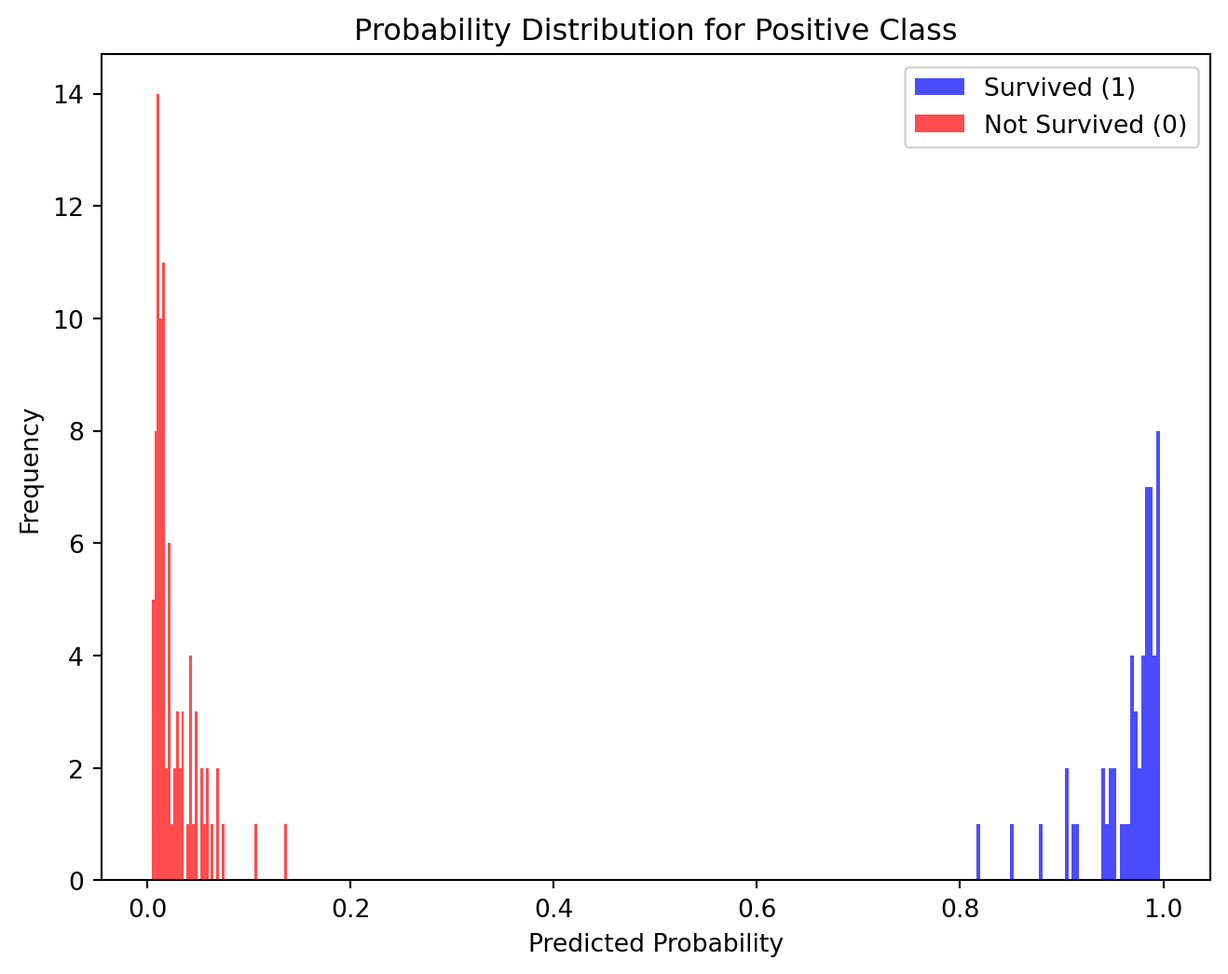
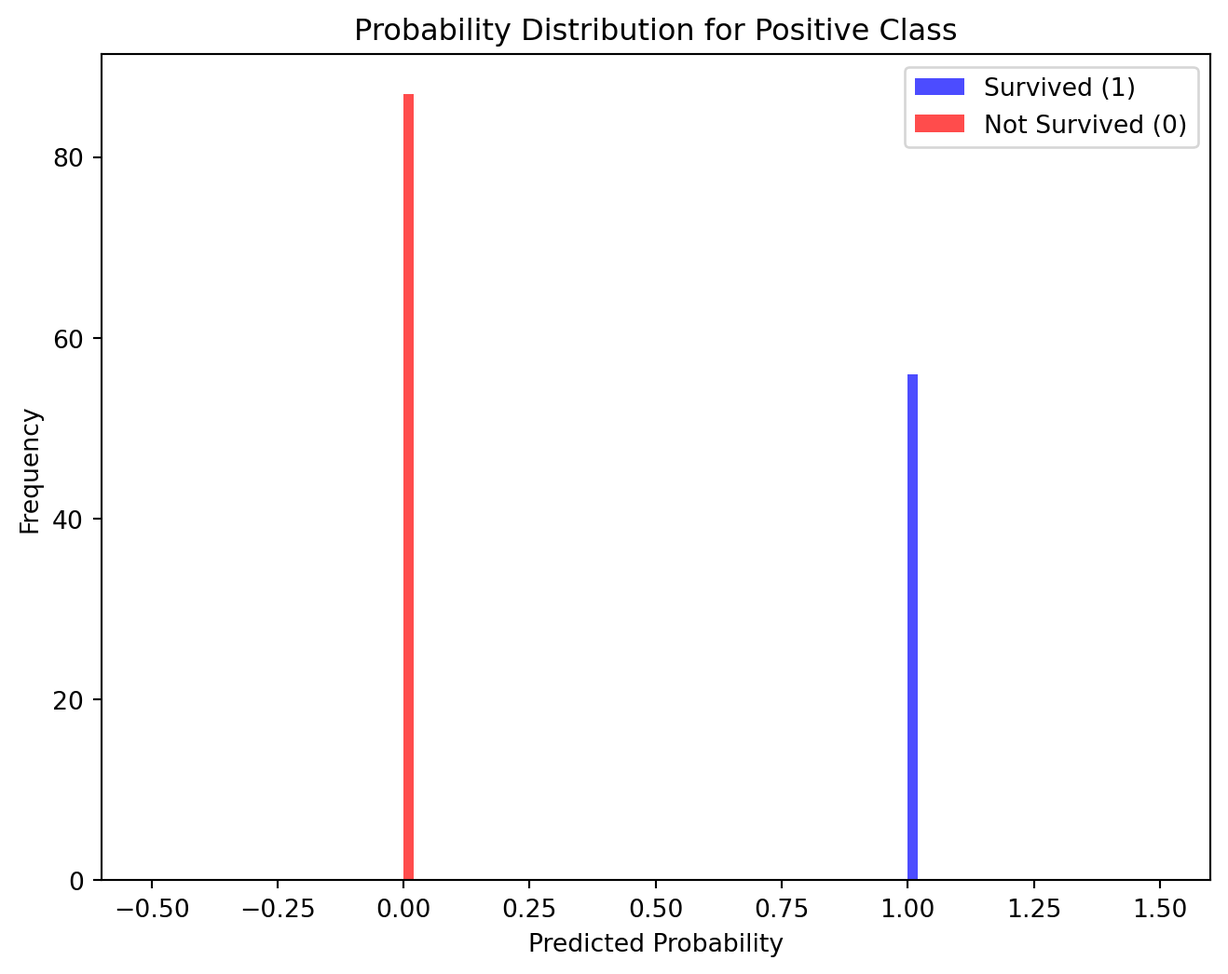
commit with GaussNB

diff --git a/docs/posts/Probability and random variable/index.html b/docs/posts/Probability and random variable/index.html
@@ -191,7 +191,7 @@ pre > code.sourceCode > span > a:first-child::before { text-decoration: underlin
 <span id="cb1-2"><a href="#cb1-2" aria-hidden="true" tabindex="-1"></a><span class="im">import</span> matplotlib.pyplot <span class="im">as</span> plt</span>
 <span id="cb1-3"><a href="#cb1-3" aria-hidden="true" tabindex="-1"></a></span>
 <span id="cb1-4"><a href="#cb1-4" aria-hidden="true" tabindex="-1"></a><span class="im">from</span> sklearn.model_selection <span class="im">import</span> train_test_split</span>
-<span id="cb1-5"><a href="#cb1-5" aria-hidden="true" tabindex="-1"></a><span class="im">from</span> sklearn.linear_model <span class="im">import</span> LogisticRegression</span>
+<span id="cb1-5"><a href="#cb1-5" aria-hidden="true" tabindex="-1"></a><span class="im">from</span> sklearn.naive_bayes <span class="im">import</span> GaussianNB</span>
 <span id="cb1-6"><a href="#cb1-6" aria-hidden="true" tabindex="-1"></a><span class="im">from</span> sklearn.metrics <span class="im">import</span> accuracy_score, classification_report</span>
 <span id="cb1-7"><a href="#cb1-7" aria-hidden="true" tabindex="-1"></a><span class="im">from</span> sklearn.metrics <span class="im">import</span> roc_curve, auc</span>
 <span id="cb1-8"><a href="#cb1-8" aria-hidden="true" tabindex="-1"></a><span class="im">from</span> sklearn.preprocessing <span class="im">import</span> OneHotEncoder</span>
@@ -244,37 +244,25 @@ pre > code.sourceCode > span > a:first-child::before { text-decoration: underlin
 </div>
 <div class="cell" data-execution_count="11">
 <div class="sourceCode cell-code" id="cb11"><pre class="sourceCode python code-with-copy"><code class="sourceCode python"><span id="cb11-1"><a href="#cb11-1" aria-hidden="true" tabindex="-1"></a><span class="co"># Train a logistic regression model</span></span>
-<span id="cb11-2"><a href="#cb11-2" aria-hidden="true" tabindex="-1"></a>model <span class="op">=</span> LogisticRegression()</span>
+<span id="cb11-2"><a href="#cb11-2" aria-hidden="true" tabindex="-1"></a>model <span class="op">=</span> GaussianNB()</span>
 <span id="cb11-3"><a href="#cb11-3" aria-hidden="true" tabindex="-1"></a>model.fit(X_train, y_train)</span></code><button title="Copy to Clipboard" class="code-copy-button"><i class="bi"></i></button></pre></div>
-<div class="cell-output cell-output-stderr">
-<pre><code>C:\Users\mehra\anaconda3\Lib\site-packages\sklearn\linear_model\_logistic.py:460: ConvergenceWarning:
-
-lbfgs failed to converge (status=1):
-STOP: TOTAL NO. of ITERATIONS REACHED LIMIT.
-
-Increase the number of iterations (max_iter) or scale the data as shown in:
-    https://scikit-learn.org/stable/modules/preprocessing.html
-Please also refer to the documentation for alternative solver options:
-    https://scikit-learn.org/stable/modules/linear_model.html#logistic-regression
-</code></pre>
-</div>
-<div class="cell-output cell-output-display" data-execution_count="11">
-<style>#sk-container-id-1 {color: black;}#sk-container-id-1 pre{padding: 0;}#sk-container-id-1 div.sk-toggleable {background-color: white;}#sk-container-id-1 label.sk-toggleable__label {cursor: pointer;display: block;width: 100%;margin-bottom: 0;padding: 0.3em;box-sizing: border-box;text-align: center;}#sk-container-id-1 label.sk-toggleable__label-arrow:before {content: "▸";float: left;margin-right: 0.25em;color: #696969;}#sk-container-id-1 label.sk-toggleable__label-arrow:hover:before {color: black;}#sk-container-id-1 div.sk-estimator:hover label.sk-toggleable__label-arrow:before {color: black;}#sk-container-id-1 div.sk-toggleable__content {max-height: 0;max-width: 0;overflow: hidden;text-align: left;background-color: #f0f8ff;}#sk-container-id-1 div.sk-toggleable__content pre {margin: 0.2em;color: black;border-radius: 0.25em;background-color: #f0f8ff;}#sk-container-id-1 input.sk-toggleable__control:checked~div.sk-toggleable__content {max-height: 200px;max-width: 100%;overflow: auto;}#sk-container-id-1 input.sk-toggleable__control:checked~label.sk-toggleable__label-arrow:before {content: "▾";}#sk-container-id-1 div.sk-estimator input.sk-toggleable__control:checked~label.sk-toggleable__label {background-color: #d4ebff;}#sk-container-id-1 div.sk-label input.sk-toggleable__control:checked~label.sk-toggleable__label {background-color: #d4ebff;}#sk-container-id-1 input.sk-hidden--visually {border: 0;clip: rect(1px 1px 1px 1px);clip: rect(1px, 1px, 1px, 1px);height: 1px;margin: -1px;overflow: hidden;padding: 0;position: absolute;width: 1px;}#sk-container-id-1 div.sk-estimator {font-family: monospace;background-color: #f0f8ff;border: 1px dotted black;border-radius: 0.25em;box-sizing: border-box;margin-bottom: 0.5em;}#sk-container-id-1 div.sk-estimator:hover {background-color: #d4ebff;}#sk-container-id-1 div.sk-parallel-item::after {content: "";width: 100%;border-bottom: 1px solid gray;flex-grow: 1;}#sk-container-id-1 div.sk-label:hover label.sk-toggleable__label {background-color: #d4ebff;}#sk-container-id-1 div.sk-serial::before {content: "";position: absolute;border-left: 1px solid gray;box-sizing: border-box;top: 0;bottom: 0;left: 50%;z-index: 0;}#sk-container-id-1 div.sk-serial {display: flex;flex-direction: column;align-items: center;background-color: white;padding-right: 0.2em;padding-left: 0.2em;position: relative;}#sk-container-id-1 div.sk-item {position: relative;z-index: 1;}#sk-container-id-1 div.sk-parallel {display: flex;align-items: stretch;justify-content: center;background-color: white;position: relative;}#sk-container-id-1 div.sk-item::before, #sk-container-id-1 div.sk-parallel-item::before {content: "";position: absolute;border-left: 1px solid gray;box-sizing: border-box;top: 0;bottom: 0;left: 50%;z-index: -1;}#sk-container-id-1 div.sk-parallel-item {display: flex;flex-direction: column;z-index: 1;position: relative;background-color: white;}#sk-container-id-1 div.sk-parallel-item:first-child::after {align-self: flex-end;width: 50%;}#sk-container-id-1 div.sk-parallel-item:last-child::after {align-self: flex-start;width: 50%;}#sk-container-id-1 div.sk-parallel-item:only-child::after {width: 0;}#sk-container-id-1 div.sk-dashed-wrapped {border: 1px dashed gray;margin: 0 0.4em 0.5em 0.4em;box-sizing: border-box;padding-bottom: 0.4em;background-color: white;}#sk-container-id-1 div.sk-label label {font-family: monospace;font-weight: bold;display: inline-block;line-height: 1.2em;}#sk-container-id-1 div.sk-label-container {text-align: center;}#sk-container-id-1 div.sk-container {/* jupyter's `normalize.less` sets `[hidden] { display: none; }` but bootstrap.min.css set `[hidden] { display: none !important; }` so we also need the `!important` here to be able to override the default hidden behavior on the sphinx rendered scikit-learn.org. See: https://github.com/scikit-learn/scikit-learn/issues/21755 */display: inline-block !important;position: relative;}#sk-container-id-1 div.sk-text-repr-fallback {display: none;}</style><div id="sk-container-id-1" class="sk-top-container"><div class="sk-text-repr-fallback"><pre>LogisticRegression()</pre><b>In a Jupyter environment, please rerun this cell to show the HTML representation or trust the notebook. <br>On GitHub, the HTML representation is unable to render, please try loading this page with nbviewer.org.</b></div><div class="sk-container" hidden=""><div class="sk-item"><div class="sk-estimator sk-toggleable"><input class="sk-toggleable__control sk-hidden--visually" id="sk-estimator-id-1" type="checkbox" checked=""><label for="sk-estimator-id-1" class="sk-toggleable__label sk-toggleable__label-arrow">LogisticRegression</label><div class="sk-toggleable__content"><pre>LogisticRegression()</pre></div></div></div></div></div>
+<div class="cell-output cell-output-display" data-execution_count="33">
+<style>#sk-container-id-1 {color: black;}#sk-container-id-1 pre{padding: 0;}#sk-container-id-1 div.sk-toggleable {background-color: white;}#sk-container-id-1 label.sk-toggleable__label {cursor: pointer;display: block;width: 100%;margin-bottom: 0;padding: 0.3em;box-sizing: border-box;text-align: center;}#sk-container-id-1 label.sk-toggleable__label-arrow:before {content: "▸";float: left;margin-right: 0.25em;color: #696969;}#sk-container-id-1 label.sk-toggleable__label-arrow:hover:before {color: black;}#sk-container-id-1 div.sk-estimator:hover label.sk-toggleable__label-arrow:before {color: black;}#sk-container-id-1 div.sk-toggleable__content {max-height: 0;max-width: 0;overflow: hidden;text-align: left;background-color: #f0f8ff;}#sk-container-id-1 div.sk-toggleable__content pre {margin: 0.2em;color: black;border-radius: 0.25em;background-color: #f0f8ff;}#sk-container-id-1 input.sk-toggleable__control:checked~div.sk-toggleable__content {max-height: 200px;max-width: 100%;overflow: auto;}#sk-container-id-1 input.sk-toggleable__control:checked~label.sk-toggleable__label-arrow:before {content: "▾";}#sk-container-id-1 div.sk-estimator input.sk-toggleable__control:checked~label.sk-toggleable__label {background-color: #d4ebff;}#sk-container-id-1 div.sk-label input.sk-toggleable__control:checked~label.sk-toggleable__label {background-color: #d4ebff;}#sk-container-id-1 input.sk-hidden--visually {border: 0;clip: rect(1px 1px 1px 1px);clip: rect(1px, 1px, 1px, 1px);height: 1px;margin: -1px;overflow: hidden;padding: 0;position: absolute;width: 1px;}#sk-container-id-1 div.sk-estimator {font-family: monospace;background-color: #f0f8ff;border: 1px dotted black;border-radius: 0.25em;box-sizing: border-box;margin-bottom: 0.5em;}#sk-container-id-1 div.sk-estimator:hover {background-color: #d4ebff;}#sk-container-id-1 div.sk-parallel-item::after {content: "";width: 100%;border-bottom: 1px solid gray;flex-grow: 1;}#sk-container-id-1 div.sk-label:hover label.sk-toggleable__label {background-color: #d4ebff;}#sk-container-id-1 div.sk-serial::before {content: "";position: absolute;border-left: 1px solid gray;box-sizing: border-box;top: 0;bottom: 0;left: 50%;z-index: 0;}#sk-container-id-1 div.sk-serial {display: flex;flex-direction: column;align-items: center;background-color: white;padding-right: 0.2em;padding-left: 0.2em;position: relative;}#sk-container-id-1 div.sk-item {position: relative;z-index: 1;}#sk-container-id-1 div.sk-parallel {display: flex;align-items: stretch;justify-content: center;background-color: white;position: relative;}#sk-container-id-1 div.sk-item::before, #sk-container-id-1 div.sk-parallel-item::before {content: "";position: absolute;border-left: 1px solid gray;box-sizing: border-box;top: 0;bottom: 0;left: 50%;z-index: -1;}#sk-container-id-1 div.sk-parallel-item {display: flex;flex-direction: column;z-index: 1;position: relative;background-color: white;}#sk-container-id-1 div.sk-parallel-item:first-child::after {align-self: flex-end;width: 50%;}#sk-container-id-1 div.sk-parallel-item:last-child::after {align-self: flex-start;width: 50%;}#sk-container-id-1 div.sk-parallel-item:only-child::after {width: 0;}#sk-container-id-1 div.sk-dashed-wrapped {border: 1px dashed gray;margin: 0 0.4em 0.5em 0.4em;box-sizing: border-box;padding-bottom: 0.4em;background-color: white;}#sk-container-id-1 div.sk-label label {font-family: monospace;font-weight: bold;display: inline-block;line-height: 1.2em;}#sk-container-id-1 div.sk-label-container {text-align: center;}#sk-container-id-1 div.sk-container {/* jupyter's `normalize.less` sets `[hidden] { display: none; }` but bootstrap.min.css set `[hidden] { display: none !important; }` so we also need the `!important` here to be able to override the default hidden behavior on the sphinx rendered scikit-learn.org. See: https://github.com/scikit-learn/scikit-learn/issues/21755 */display: inline-block !important;position: relative;}#sk-container-id-1 div.sk-text-repr-fallback {display: none;}</style><div id="sk-container-id-1" class="sk-top-container"><div class="sk-text-repr-fallback"><pre>GaussianNB()</pre><b>In a Jupyter environment, please rerun this cell to show the HTML representation or trust the notebook. <br>On GitHub, the HTML representation is unable to render, please try loading this page with nbviewer.org.</b></div><div class="sk-container" hidden=""><div class="sk-item"><div class="sk-estimator sk-toggleable"><input class="sk-toggleable__control sk-hidden--visually" id="sk-estimator-id-1" type="checkbox" checked=""><label for="sk-estimator-id-1" class="sk-toggleable__label sk-toggleable__label-arrow">GaussianNB</label><div class="sk-toggleable__content"><pre>GaussianNB()</pre></div></div></div></div></div>
 </div>
 </div>
 <div class="cell" data-execution_count="12">
-<div class="sourceCode cell-code" id="cb13"><pre class="sourceCode python code-with-copy"><code class="sourceCode python"><span id="cb13-1"><a href="#cb13-1" aria-hidden="true" tabindex="-1"></a><span class="co"># Make predictions on the test set</span></span>
-<span id="cb13-2"><a href="#cb13-2" aria-hidden="true" tabindex="-1"></a>y_pred <span class="op">=</span> model.predict(X_test)</span>
-<span id="cb13-3"><a href="#cb13-3" aria-hidden="true" tabindex="-1"></a>y_pred_proba <span class="op">=</span> model.predict_proba(X_test)[:, <span class="dv">1</span>]</span></code><button title="Copy to Clipboard" class="code-copy-button"><i class="bi"></i></button></pre></div>
+<div class="sourceCode cell-code" id="cb12"><pre class="sourceCode python code-with-copy"><code class="sourceCode python"><span id="cb12-1"><a href="#cb12-1" aria-hidden="true" tabindex="-1"></a><span class="co"># Make predictions on the test set</span></span>
+<span id="cb12-2"><a href="#cb12-2" aria-hidden="true" tabindex="-1"></a>y_pred <span class="op">=</span> model.predict(X_test)</span>
+<span id="cb12-3"><a href="#cb12-3" aria-hidden="true" tabindex="-1"></a>y_pred_proba <span class="op">=</span> model.predict_proba(X_test)[:, <span class="dv">1</span>]</span></code><button title="Copy to Clipboard" class="code-copy-button"><i class="bi"></i></button></pre></div>
 </div>
 <div class="cell" data-execution_count="13">
-<div class="sourceCode cell-code" id="cb14"><pre class="sourceCode python code-with-copy"><code class="sourceCode python"><span id="cb14-1"><a href="#cb14-1" aria-hidden="true" tabindex="-1"></a><span class="co"># Evaluate the model</span></span>
-<span id="cb14-2"><a href="#cb14-2" aria-hidden="true" tabindex="-1"></a>accuracy <span class="op">=</span> accuracy_score(y_test, y_pred)</span>
-<span id="cb14-3"><a href="#cb14-3" aria-hidden="true" tabindex="-1"></a>classification_rep <span class="op">=</span> classification_report(y_test, y_pred)</span></code><button title="Copy to Clipboard" class="code-copy-button"><i class="bi"></i></button></pre></div>
+<div class="sourceCode cell-code" id="cb13"><pre class="sourceCode python code-with-copy"><code class="sourceCode python"><span id="cb13-1"><a href="#cb13-1" aria-hidden="true" tabindex="-1"></a><span class="co"># Evaluate the model</span></span>
+<span id="cb13-2"><a href="#cb13-2" aria-hidden="true" tabindex="-1"></a>accuracy <span class="op">=</span> accuracy_score(y_test, y_pred)</span>
+<span id="cb13-3"><a href="#cb13-3" aria-hidden="true" tabindex="-1"></a>classification_rep <span class="op">=</span> classification_report(y_test, y_pred)</span></code><button title="Copy to Clipboard" class="code-copy-button"><i class="bi"></i></button></pre></div>
 </div>
 <div class="cell" data-execution_count="14">
-<div class="sourceCode cell-code" id="cb15"><pre class="sourceCode python code-with-copy"><code class="sourceCode python"><span id="cb15-1"><a href="#cb15-1" aria-hidden="true" tabindex="-1"></a><span class="bu">print</span>(<span class="ss">f"Accuracy: </span><span class="sc">{</span>accuracy<span class="sc">:.2f}</span><span class="ss">"</span>)</span>
-<span id="cb15-2"><a href="#cb15-2" aria-hidden="true" tabindex="-1"></a><span class="bu">print</span>(<span class="st">"Classification Report:</span><span class="ch">\n</span><span class="st">"</span>, classification_rep)</span></code><button title="Copy to Clipboard" class="code-copy-button"><i class="bi"></i></button></pre></div>
+<div class="sourceCode cell-code" id="cb14"><pre class="sourceCode python code-with-copy"><code class="sourceCode python"><span id="cb14-1"><a href="#cb14-1" aria-hidden="true" tabindex="-1"></a><span class="bu">print</span>(<span class="ss">f"Accuracy: </span><span class="sc">{</span>accuracy<span class="sc">:.2f}</span><span class="ss">"</span>)</span>
+<span id="cb14-2"><a href="#cb14-2" aria-hidden="true" tabindex="-1"></a><span class="bu">print</span>(<span class="st">"Classification Report:</span><span class="ch">\n</span><span class="st">"</span>, classification_rep)</span></code><button title="Copy to Clipboard" class="code-copy-button"><i class="bi"></i></button></pre></div>
 <div class="cell-output cell-output-stdout">
 <pre><code>Accuracy: 1.00
 Classification Report:
@@ -290,50 +278,50 @@ weighted avg       1.00      1.00      1.00       143
 </div>
 </div>
 <div class="cell" data-execution_count="15">
-<div class="sourceCode cell-code" id="cb17"><pre class="sourceCode python code-with-copy"><code class="sourceCode python"><span id="cb17-1"><a href="#cb17-1" aria-hidden="true" tabindex="-1"></a><span class="co"># Plot the ROC curve and display the AUC score</span></span>
-<span id="cb17-2"><a href="#cb17-2" aria-hidden="true" tabindex="-1"></a><span class="im">from</span> sklearn.metrics <span class="im">import</span> roc_curve, auc</span>
-<span id="cb17-3"><a href="#cb17-3" aria-hidden="true" tabindex="-1"></a><span class="im">from</span> sklearn.metrics <span class="im">import</span> precision_recall_curve, average_precision_score</span>
-<span id="cb17-4"><a href="#cb17-4" aria-hidden="true" tabindex="-1"></a></span>
-<span id="cb17-5"><a href="#cb17-5" aria-hidden="true" tabindex="-1"></a></span>
-<span id="cb17-6"><a href="#cb17-6" aria-hidden="true" tabindex="-1"></a>fpr, tpr, thresholds <span class="op">=</span> roc_curve(y_test, y_pred_proba)</span>
-<span id="cb17-7"><a href="#cb17-7" aria-hidden="true" tabindex="-1"></a>roc_auc <span class="op">=</span> auc(fpr, tpr)</span>
-<span id="cb17-8"><a href="#cb17-8" aria-hidden="true" tabindex="-1"></a></span>
-<span id="cb17-9"><a href="#cb17-9" aria-hidden="true" tabindex="-1"></a>precision, recall, _ <span class="op">=</span> precision_recall_curve(y_test, y_pred_proba)</span>
-<span id="cb17-10"><a href="#cb17-10" aria-hidden="true" tabindex="-1"></a>average_precision <span class="op">=</span> average_precision_score(y_test, y_pred_proba)</span>
-<span id="cb17-11"><a href="#cb17-11" aria-hidden="true" tabindex="-1"></a></span>
-<span id="cb17-12"><a href="#cb17-12" aria-hidden="true" tabindex="-1"></a><span class="co"># Plot ROC curve</span></span>
-<span id="cb17-13"><a href="#cb17-13" aria-hidden="true" tabindex="-1"></a>plt.figure(figsize<span class="op">=</span>(<span class="dv">12</span>, <span class="dv">5</span>))</span>
-<span id="cb17-14"><a href="#cb17-14" aria-hidden="true" tabindex="-1"></a></span>
-<span id="cb17-15"><a href="#cb17-15" aria-hidden="true" tabindex="-1"></a>plt.subplot(<span class="dv">1</span>, <span class="dv">2</span>, <span class="dv">1</span>)</span>
-<span id="cb17-16"><a href="#cb17-16" aria-hidden="true" tabindex="-1"></a>plt.plot(fpr, tpr, color<span class="op">=</span><span class="st">'darkorange'</span>, lw<span class="op">=</span><span class="dv">2</span>, label<span class="op">=</span><span class="ss">f'AUC = </span><span class="sc">{</span>roc_auc<span class="sc">:.2f}</span><span class="ss">'</span>)</span>
-<span id="cb17-17"><a href="#cb17-17" aria-hidden="true" tabindex="-1"></a>plt.plot([<span class="dv">0</span>, <span class="dv">1</span>], [<span class="dv">0</span>, <span class="dv">1</span>], color<span class="op">=</span><span class="st">'navy'</span>, lw<span class="op">=</span><span class="dv">2</span>, linestyle<span class="op">=</span><span class="st">'--'</span>)</span>
-<span id="cb17-18"><a href="#cb17-18" aria-hidden="true" tabindex="-1"></a>plt.xlabel(<span class="st">'False Positive Rate'</span>)</span>
-<span id="cb17-19"><a href="#cb17-19" aria-hidden="true" tabindex="-1"></a>plt.ylabel(<span class="st">'True Positive Rate'</span>)</span>
-<span id="cb17-20"><a href="#cb17-20" aria-hidden="true" tabindex="-1"></a>plt.title(<span class="st">'Receiver Operating Characteristic (ROC) Curve'</span>)</span>
-<span id="cb17-21"><a href="#cb17-21" aria-hidden="true" tabindex="-1"></a>plt.legend(loc<span class="op">=</span><span class="st">"lower right"</span>)</span>
-<span id="cb17-22"><a href="#cb17-22" aria-hidden="true" tabindex="-1"></a></span>
-<span id="cb17-23"><a href="#cb17-23" aria-hidden="true" tabindex="-1"></a><span class="co"># Plot precision-recall curve</span></span>
-<span id="cb17-24"><a href="#cb17-24" aria-hidden="true" tabindex="-1"></a>plt.subplot(<span class="dv">1</span>, <span class="dv">2</span>, <span class="dv">2</span>)</span>
-<span id="cb17-25"><a href="#cb17-25" aria-hidden="true" tabindex="-1"></a>plt.step(recall, precision, color<span class="op">=</span><span class="st">'b'</span>, alpha<span class="op">=</span><span class="fl">0.2</span>, where<span class="op">=</span><span class="st">'post'</span>)</span>
-<span id="cb17-26"><a href="#cb17-26" aria-hidden="true" tabindex="-1"></a>plt.fill_between(recall, precision, step<span class="op">=</span><span class="st">'post'</span>, alpha<span class="op">=</span><span class="fl">0.2</span>, color<span class="op">=</span><span class="st">'b'</span>)</span>
-<span id="cb17-27"><a href="#cb17-27" aria-hidden="true" tabindex="-1"></a>plt.xlabel(<span class="st">'Recall'</span>)</span>
-<span id="cb17-28"><a href="#cb17-28" aria-hidden="true" tabindex="-1"></a>plt.ylabel(<span class="st">'Precision'</span>)</span>
-<span id="cb17-29"><a href="#cb17-29" aria-hidden="true" tabindex="-1"></a>plt.ylim([<span class="fl">0.0</span>, <span class="fl">1.05</span>])</span>
-<span id="cb17-30"><a href="#cb17-30" aria-hidden="true" tabindex="-1"></a>plt.xlim([<span class="fl">0.0</span>, <span class="fl">1.0</span>])</span>
-<span id="cb17-31"><a href="#cb17-31" aria-hidden="true" tabindex="-1"></a>plt.title(<span class="st">'Precision-Recall curve: AP=</span><span class="sc">{0:0.2f}</span><span class="st">'</span>.<span class="bu">format</span>(average_precision))</span>
-<span id="cb17-32"><a href="#cb17-32" aria-hidden="true" tabindex="-1"></a></span>
-<span id="cb17-33"><a href="#cb17-33" aria-hidden="true" tabindex="-1"></a>plt.tight_layout()</span>
-<span id="cb17-34"><a href="#cb17-34" aria-hidden="true" tabindex="-1"></a>plt.show()</span>
-<span id="cb17-35"><a href="#cb17-35" aria-hidden="true" tabindex="-1"></a></span>
-<span id="cb17-36"><a href="#cb17-36" aria-hidden="true" tabindex="-1"></a><span class="co"># Plot probability distribution for positive class</span></span>
-<span id="cb17-37"><a href="#cb17-37" aria-hidden="true" tabindex="-1"></a>plt.figure(figsize<span class="op">=</span>(<span class="dv">8</span>, <span class="dv">6</span>))</span>
-<span id="cb17-38"><a href="#cb17-38" aria-hidden="true" tabindex="-1"></a>plt.hist(y_pred_proba[y_test <span class="op">==</span> <span class="dv">1</span>], bins<span class="op">=</span><span class="dv">50</span>, color<span class="op">=</span><span class="st">'blue'</span>, alpha<span class="op">=</span><span class="fl">0.7</span>, label<span class="op">=</span><span class="st">'Survived (1)'</span>)</span>
-<span id="cb17-39"><a href="#cb17-39" aria-hidden="true" tabindex="-1"></a>plt.hist(y_pred_proba[y_test <span class="op">==</span> <span class="dv">0</span>], bins<span class="op">=</span><span class="dv">50</span>, color<span class="op">=</span><span class="st">'red'</span>, alpha<span class="op">=</span><span class="fl">0.7</span>, label<span class="op">=</span><span class="st">'Not Survived (0)'</span>)</span>
-<span id="cb17-40"><a href="#cb17-40" aria-hidden="true" tabindex="-1"></a>plt.xlabel(<span class="st">'Predicted Probability'</span>)</span>
-<span id="cb17-41"><a href="#cb17-41" aria-hidden="true" tabindex="-1"></a>plt.ylabel(<span class="st">'Frequency'</span>)</span>
-<span id="cb17-42"><a href="#cb17-42" aria-hidden="true" tabindex="-1"></a>plt.title(<span class="st">'Probability Distribution for Positive Class'</span>)</span>
-<span id="cb17-43"><a href="#cb17-43" aria-hidden="true" tabindex="-1"></a>plt.legend(loc<span class="op">=</span><span class="st">'upper right'</span>)</span>
-<span id="cb17-44"><a href="#cb17-44" aria-hidden="true" tabindex="-1"></a>plt.show()</span></code><button title="Copy to Clipboard" class="code-copy-button"><i class="bi"></i></button></pre></div>
+<div class="sourceCode cell-code" id="cb16"><pre class="sourceCode python code-with-copy"><code class="sourceCode python"><span id="cb16-1"><a href="#cb16-1" aria-hidden="true" tabindex="-1"></a><span class="co"># Plot the ROC curve and display the AUC score</span></span>
+<span id="cb16-2"><a href="#cb16-2" aria-hidden="true" tabindex="-1"></a><span class="im">from</span> sklearn.metrics <span class="im">import</span> roc_curve, auc</span>
+<span id="cb16-3"><a href="#cb16-3" aria-hidden="true" tabindex="-1"></a><span class="im">from</span> sklearn.metrics <span class="im">import</span> precision_recall_curve, average_precision_score</span>
+<span id="cb16-4"><a href="#cb16-4" aria-hidden="true" tabindex="-1"></a></span>
+<span id="cb16-5"><a href="#cb16-5" aria-hidden="true" tabindex="-1"></a></span>
+<span id="cb16-6"><a href="#cb16-6" aria-hidden="true" tabindex="-1"></a>fpr, tpr, thresholds <span class="op">=</span> roc_curve(y_test, y_pred_proba)</span>
+<span id="cb16-7"><a href="#cb16-7" aria-hidden="true" tabindex="-1"></a>roc_auc <span class="op">=</span> auc(fpr, tpr)</span>
+<span id="cb16-8"><a href="#cb16-8" aria-hidden="true" tabindex="-1"></a></span>
+<span id="cb16-9"><a href="#cb16-9" aria-hidden="true" tabindex="-1"></a>precision, recall, _ <span class="op">=</span> precision_recall_curve(y_test, y_pred_proba)</span>
+<span id="cb16-10"><a href="#cb16-10" aria-hidden="true" tabindex="-1"></a>average_precision <span class="op">=</span> average_precision_score(y_test, y_pred_proba)</span>
+<span id="cb16-11"><a href="#cb16-11" aria-hidden="true" tabindex="-1"></a></span>
+<span id="cb16-12"><a href="#cb16-12" aria-hidden="true" tabindex="-1"></a><span class="co"># Plot ROC curve</span></span>
+<span id="cb16-13"><a href="#cb16-13" aria-hidden="true" tabindex="-1"></a>plt.figure(figsize<span class="op">=</span>(<span class="dv">12</span>, <span class="dv">5</span>))</span>
+<span id="cb16-14"><a href="#cb16-14" aria-hidden="true" tabindex="-1"></a></span>
+<span id="cb16-15"><a href="#cb16-15" aria-hidden="true" tabindex="-1"></a>plt.subplot(<span class="dv">1</span>, <span class="dv">2</span>, <span class="dv">1</span>)</span>
+<span id="cb16-16"><a href="#cb16-16" aria-hidden="true" tabindex="-1"></a>plt.plot(fpr, tpr, color<span class="op">=</span><span class="st">'darkorange'</span>, lw<span class="op">=</span><span class="dv">2</span>, label<span class="op">=</span><span class="ss">f'AUC = </span><span class="sc">{</span>roc_auc<span class="sc">:.2f}</span><span class="ss">'</span>)</span>
+<span id="cb16-17"><a href="#cb16-17" aria-hidden="true" tabindex="-1"></a>plt.plot([<span class="dv">0</span>, <span class="dv">1</span>], [<span class="dv">0</span>, <span class="dv">1</span>], color<span class="op">=</span><span class="st">'navy'</span>, lw<span class="op">=</span><span class="dv">2</span>, linestyle<span class="op">=</span><span class="st">'--'</span>)</span>
+<span id="cb16-18"><a href="#cb16-18" aria-hidden="true" tabindex="-1"></a>plt.xlabel(<span class="st">'False Positive Rate'</span>)</span>
+<span id="cb16-19"><a href="#cb16-19" aria-hidden="true" tabindex="-1"></a>plt.ylabel(<span class="st">'True Positive Rate'</span>)</span>
+<span id="cb16-20"><a href="#cb16-20" aria-hidden="true" tabindex="-1"></a>plt.title(<span class="st">'Receiver Operating Characteristic (ROC) Curve'</span>)</span>
+<span id="cb16-21"><a href="#cb16-21" aria-hidden="true" tabindex="-1"></a>plt.legend(loc<span class="op">=</span><span class="st">"lower right"</span>)</span>
+<span id="cb16-22"><a href="#cb16-22" aria-hidden="true" tabindex="-1"></a></span>
+<span id="cb16-23"><a href="#cb16-23" aria-hidden="true" tabindex="-1"></a><span class="co"># Plot precision-recall curve</span></span>
+<span id="cb16-24"><a href="#cb16-24" aria-hidden="true" tabindex="-1"></a>plt.subplot(<span class="dv">1</span>, <span class="dv">2</span>, <span class="dv">2</span>)</span>
+<span id="cb16-25"><a href="#cb16-25" aria-hidden="true" tabindex="-1"></a>plt.step(recall, precision, color<span class="op">=</span><span class="st">'b'</span>, alpha<span class="op">=</span><span class="fl">0.2</span>, where<span class="op">=</span><span class="st">'post'</span>)</span>
+<span id="cb16-26"><a href="#cb16-26" aria-hidden="true" tabindex="-1"></a>plt.fill_between(recall, precision, step<span class="op">=</span><span class="st">'post'</span>, alpha<span class="op">=</span><span class="fl">0.2</span>, color<span class="op">=</span><span class="st">'b'</span>)</span>
+<span id="cb16-27"><a href="#cb16-27" aria-hidden="true" tabindex="-1"></a>plt.xlabel(<span class="st">'Recall'</span>)</span>
+<span id="cb16-28"><a href="#cb16-28" aria-hidden="true" tabindex="-1"></a>plt.ylabel(<span class="st">'Precision'</span>)</span>
+<span id="cb16-29"><a href="#cb16-29" aria-hidden="true" tabindex="-1"></a>plt.ylim([<span class="fl">0.0</span>, <span class="fl">1.05</span>])</span>
+<span id="cb16-30"><a href="#cb16-30" aria-hidden="true" tabindex="-1"></a>plt.xlim([<span class="fl">0.0</span>, <span class="fl">1.0</span>])</span>
+<span id="cb16-31"><a href="#cb16-31" aria-hidden="true" tabindex="-1"></a>plt.title(<span class="st">'Precision-Recall curve: AP=</span><span class="sc">{0:0.2f}</span><span class="st">'</span>.<span class="bu">format</span>(average_precision))</span>
+<span id="cb16-32"><a href="#cb16-32" aria-hidden="true" tabindex="-1"></a></span>
+<span id="cb16-33"><a href="#cb16-33" aria-hidden="true" tabindex="-1"></a>plt.tight_layout()</span>
+<span id="cb16-34"><a href="#cb16-34" aria-hidden="true" tabindex="-1"></a>plt.show()</span>
+<span id="cb16-35"><a href="#cb16-35" aria-hidden="true" tabindex="-1"></a></span>
+<span id="cb16-36"><a href="#cb16-36" aria-hidden="true" tabindex="-1"></a><span class="co"># Plot probability distribution for positive class</span></span>
+<span id="cb16-37"><a href="#cb16-37" aria-hidden="true" tabindex="-1"></a>plt.figure(figsize<span class="op">=</span>(<span class="dv">8</span>, <span class="dv">6</span>))</span>
+<span id="cb16-38"><a href="#cb16-38" aria-hidden="true" tabindex="-1"></a>plt.hist(y_pred_proba[y_test <span class="op">==</span> <span class="dv">1</span>], bins<span class="op">=</span><span class="dv">50</span>, color<span class="op">=</span><span class="st">'blue'</span>, alpha<span class="op">=</span><span class="fl">0.7</span>, label<span class="op">=</span><span class="st">'Survived (1)'</span>)</span>
+<span id="cb16-39"><a href="#cb16-39" aria-hidden="true" tabindex="-1"></a>plt.hist(y_pred_proba[y_test <span class="op">==</span> <span class="dv">0</span>], bins<span class="op">=</span><span class="dv">50</span>, color<span class="op">=</span><span class="st">'red'</span>, alpha<span class="op">=</span><span class="fl">0.7</span>, label<span class="op">=</span><span class="st">'Not Survived (0)'</span>)</span>
+<span id="cb16-40"><a href="#cb16-40" aria-hidden="true" tabindex="-1"></a>plt.xlabel(<span class="st">'Predicted Probability'</span>)</span>
+<span id="cb16-41"><a href="#cb16-41" aria-hidden="true" tabindex="-1"></a>plt.ylabel(<span class="st">'Frequency'</span>)</span>
+<span id="cb16-42"><a href="#cb16-42" aria-hidden="true" tabindex="-1"></a>plt.title(<span class="st">'Probability Distribution for Positive Class'</span>)</span>
+<span id="cb16-43"><a href="#cb16-43" aria-hidden="true" tabindex="-1"></a>plt.legend(loc<span class="op">=</span><span class="st">'upper right'</span>)</span>
+<span id="cb16-44"><a href="#cb16-44" aria-hidden="true" tabindex="-1"></a>plt.show()</span></code><button title="Copy to Clipboard" class="code-copy-button"><i class="bi"></i></button></pre></div>
 <div class="cell-output cell-output-display">
 <p><img src="index_files/figure-html/cell-16-output-1.png" width="1141" height="468"></p>
 </div>

diff --git a/docs/index.html b/docs/index.html
@@ -325,7 +325,7 @@ Harlow Malloc
 </a>
 </div>
 </div>
-<div class="quarto-post image-right" data-index="4" data-categories="code,analysis" data-listing-date-sort="1701925200000" data-listing-file-modified-sort="1702246324674" data-listing-date-modified-sort="NaN" data-listing-reading-time-sort="2">
+<div class="quarto-post image-right" data-index="4" data-categories="code,analysis" data-listing-date-sort="1701925200000" data-listing-file-modified-sort="1702247024541" data-listing-date-modified-sort="NaN" data-listing-reading-time-sort="2">
 <div class="thumbnail">
 <p><a href="./posts/Probability and random variable/index.html"> <img src="./posts/Probability and random variable/image.jpg" class="thumbnail-image"> </a></p>
 </div>
